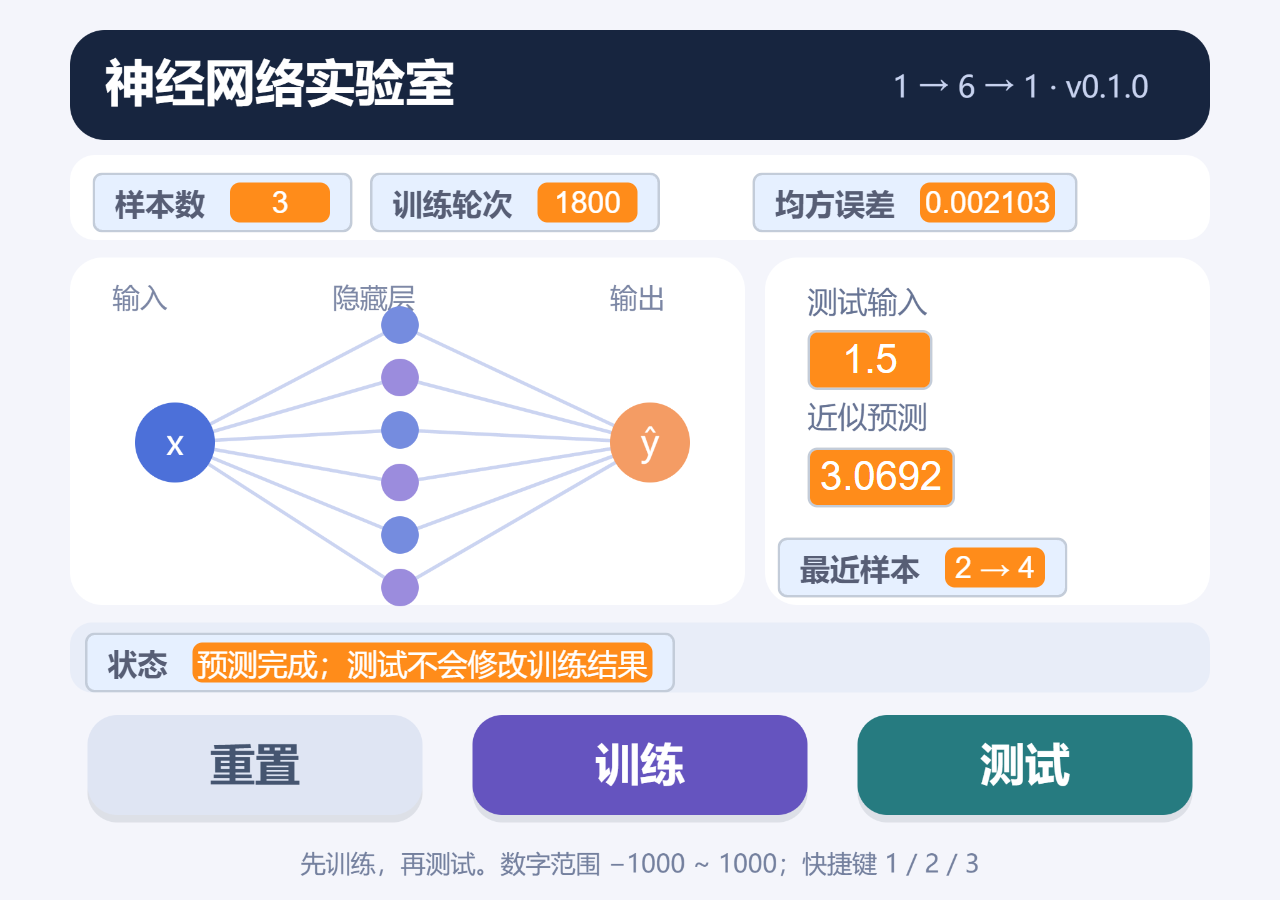
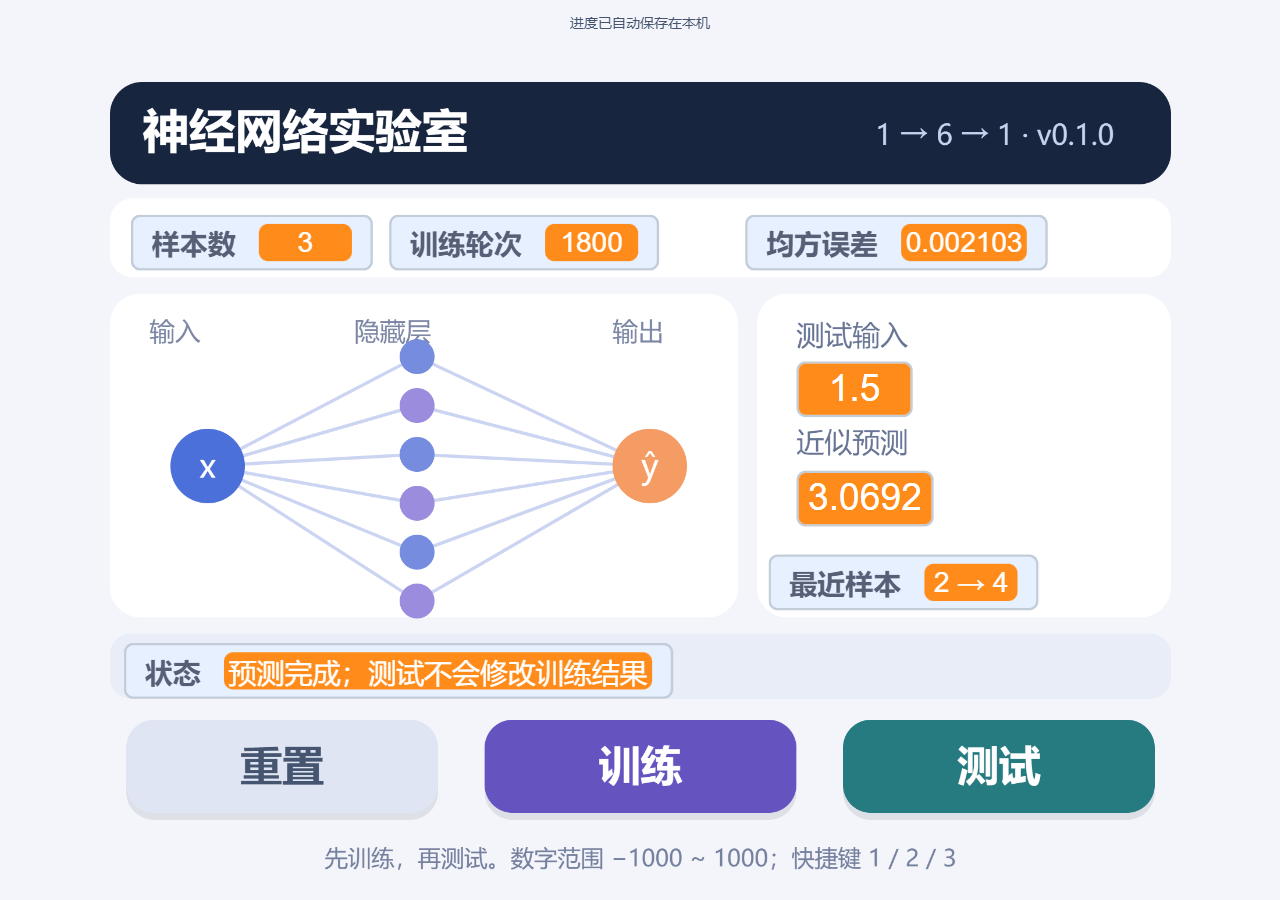
Deliver tested offline web resource for game hub

diff --git a/web-dist/index.html b/web-dist/index.html
@@ -140,7 +140,13 @@
     .sc-monitor-row-value-editing .sc-monitor-row-value-outer {
       background-color: #e25b27;
     }
-    
+    #hall-banner{position:fixed;top:max(8px,env(safe-area-inset-top));left:10px;right:10px;min-height:32px;display:flex;align-items:center;justify-content:center;gap:10px;z-index:20;color:#455570;font:14px/1.4 system-ui,sans-serif;text-align:center}
+#hall-banner button{padding:8px 12px;min-height:40px;border:1px solid #b9c4da;border-radius:8px;background:#fff;color:#17253f;font:inherit}
+#app{top:54px!important;height:calc(100% - 62px)!important}
+.sc-question-input{font-size:16px!important;min-height:40px!important;box-sizing:border-box}
+.sc-question-inner{padding:10px!important}
+@media(max-height:450px){#hall-banner{font-size:12px;top:4px;min-height:24px}#app{top:36px!important;height:calc(100% - 40px)!important}}
+
   </style>
   <meta name="theme-color" content="#f4f5fb">
   
@@ -288,7 +294,105 @@ THIS SOFTWARE IS PROVIDED BY THE COPYRIGHT HOLDERS AND CONTRIBUTORS "AS IS" AND 
       handleError(e);
     }
   </script>
-  
+  <script>
+    try {
+      window.__hallConfig={"id":"turbowarp-neural-network","title":"神经网络实验室","version":"0.1.0","kind":"neural","project":"dist/neural-network.sb3"};
+(function(root){
+ 'use strict';
+ const clone=value=>JSON.parse(JSON.stringify(value));
+ function validate(data,config,template){
+  if(!data||data.schemaVersion!==1||data.id!==config.id||data.contract!==config.id+'-dynamic-v1'||!data.variables||Array.isArray(data.variables))throw Error('存档版本或项目不匹配');
+  const keys=Object.keys(template).sort();
+  if(JSON.stringify(Object.keys(data.variables).sort())!==JSON.stringify(keys))throw Error('存档字段不完整');
+  const scalar=v=>typeof v==='boolean'||typeof v==='number'&&Number.isFinite(v)||typeof v==='string'&&v.length<=256;
+  for(const id of keys){const value=data.variables[id];if(Array.isArray(template[id])){if(!Array.isArray(value)||value.length>512||!value.every(scalar))throw Error('存档列表无效');}else if(!scalar(value)||Array.isArray(value))throw Error('存档数值无效');}
+  const v=data.variables;
+  if(Number(v.v_忙碌)!==0)throw Error('存档来自未完成操作');
+  if(config.kind==='neural'){
+   const xs=v.l_样本X,ys=v.l_样本Y;
+   if(xs.length!==ys.length||xs.length>32||xs.some(x=>!Number.isFinite(Number(x))||Math.abs(Number(x))>1000)||ys.some(x=>!Number.isFinite(Number(x))||Math.abs(Number(x))>1000))throw Error('训练样本无效');
+   if(Number(v.v_样本数)!==xs.length||!Number.isSafeInteger(Number(v.v_训练轮次))||Number(v.v_训练轮次)<0)throw Error('训练记录不一致');
+   for(const n of ['l_W1','l_B1','l_W2','l_H'])if(v[n].length!==6||v[n].some(x=>!Number.isFinite(Number(x))))throw Error('模型权重无效');
+   if(!Number.isFinite(Number(v.v_B2))||!Number.isFinite(Number(v.v_scaleX))||!Number.isFinite(Number(v.v_scaleY))||!(Number(v.v_scaleX)>0)||!(Number(v.v_scaleY)>0))throw Error('模型缩放无效');
+  }else{
+   for(const [n,max] of [['T',6],['A',24],['B',24],['Q',1]])if(v['l_'+n].length!==24||v['l_'+n].some(x=>!Number.isInteger(Number(x))||Number(x)<0||Number(x)>max))throw Error('电路数据无效');
+   if(Number(v.v_来源)!==0)throw Error('存档含未完成连线');
+   for(const n of ['U_T','U_A','U_B','U_Q'])if(v['l_'+n].length!==(Number(v.v_可撤销)===1?24:0)&&v['l_'+n].length!==24)throw Error('撤销快照无效');
+   const marks=Array(24).fill(0);
+   const visit=i=>{if(marks[i]===1)throw Error('电路含反馈');if(marks[i]===2)return;marks[i]=1;const type=Number(v.l_T[i]);if(type>=2){const ports=[v.l_A[i]];if([2,4,5].includes(type))ports.push(v.l_B[i]);for(const p of ports)if(Number(p)){if(!Number(v.l_T[Number(p)-1]))throw Error('电路来源为空');visit(Number(p)-1);}}marks[i]=2;};
+   for(let i=0;i<24;i++)visit(i);
+  }
+  return data;
+ }
+ function parse(raw,config,template){if(typeof raw!=='string'||raw.length>100000)throw Error('存档大小无效');return validate(JSON.parse(raw),config,template);}
+ const api={clone,validate,parse};
+ if(typeof module!=='undefined'&&module.exports)module.exports=api;else root.TurboHallState=api;
+})(typeof window==='undefined'?globalThis:window);
+
+(() => {
+ 'use strict';
+ const config=window.__hallConfig,codec=window.TurboHallState,scaffolding=window.scaffolding,vm=scaffolding.vm;
+ const key=config.id+'.state.v1';
+ const banner=document.createElement('div');banner.id='hall-banner';
+ const status=document.createElement('span');status.role='status';status.textContent='正在恢复进度…';
+ const restart=document.createElement('button');restart.type='button';restart.textContent='从原始作品重新开始';restart.hidden=true;
+ banner.append(status,restart);document.body.append(banner);
+ let ready=false,locked=false,last='',template,initial,booting=false,storageError=false;
+ const stage=()=>vm.runtime.getTargetForStage();
+ const values=()=>Object.fromEntries(Object.entries(stage().variables).map(([id,v])=>[id,codec.clone(v.value)]));
+ const idle=()=>stage()&&Number(stage().variables.v_忙碌.value)===0&&(config.kind!=='logic'||Number(stage().variables.v_来源.value)===0);
+ const normalized=()=>{const v=values();if(config.kind==='logic'){v.v_清空时刻=-10;v.v_动作=0;}return v;};
+ function save(){
+  if(!ready||locked||!idle())return false;
+  const variables=normalized(),encoded=JSON.stringify(variables);
+  if(encoded===last)return true;
+  try{
+   const data={schemaVersion:1,id:config.id,contract:config.id+'-dynamic-v1',variables};codec.validate(data,config,template);
+   localStorage.setItem(key,JSON.stringify(data));last=encoded;status.textContent='进度已自动保存在本机';storageError=false;return true;
+  }catch(error){status.textContent='暂时无法保存进度，请保留当前页面';storageError=true;return false;}
+ }
+ async function settle(){
+  const deadline=performance.now()+10000;await new Promise(r=>setTimeout(r,120));
+  while(!idle()||(config.kind==='logic'&&vm.runtime.targets.filter(t=>!t.isOriginal).length!==24)){
+   if(performance.now()>deadline)throw Error('作品初始化超时');await new Promise(r=>setTimeout(r,30));
+  }
+ }
+ async function apply(data){
+  codec.validate(data,config,template);
+  for(const [id,value] of Object.entries(data.variables))stage().variables[id].value=codec.clone(value);
+  if(config.kind==='logic'){
+   stage().variables.v_动作.value=Math.max(1,Math.min(6,Number(stage().variables.v_工具.value)||2));
+   vm.runtime.startHats('event_whenbroadcastreceived',{BROADCAST_OPTION:'工具点击'});await settle();
+  }
+ }
+ const originalStart=scaffolding.start.bind(scaffolding);
+ scaffolding.start=()=>{
+  if(booting)return;booting=true;
+  initial={schemaVersion:1,id:config.id,contract:config.id+'-dynamic-v1',variables:values()};template=codec.clone(initial.variables);
+  let restore=initial;
+  try{const raw=localStorage.getItem(key);if(raw!==null)restore=codec.parse(raw,config,template);}
+  catch(error){locked=true;status.textContent='存档无法恢复，原数据已保留；可选择重新开始';restart.hidden=false;}
+  originalStart();
+  (async()=>{await settle();if(config.kind==='neural'&&initial.variables.l_W1.length===0)initial.variables=values();if(!locked)await apply(restore);ready=true;window.hall.ready=true;
+   if(!locked){last='';save();}
+   setInterval(save,200);vm.runtime.on('AFTER_EXECUTE',save);
+  })().catch(error=>{locked=true;status.textContent='作品恢复失败，原存档已保留';restart.hidden=false;window.hall.error=String(error);});
+ };
+ restart.addEventListener('click',async()=>{
+  if(!window.confirm('保留原存档的恢复副本，并从作品初始状态重新开始？'))return;
+  try{const raw=localStorage.getItem(key);if(raw!==null)localStorage.setItem(config.id+'.recovery.'+Date.now(),raw);await apply(initial);locked=false;restart.hidden=true;last='';save();}
+  catch(error){status.textContent='无法安全恢复，请保留当前页面和存档';}
+ });
+ window.addEventListener('pagehide',save);
+ document.addEventListener('visibilitychange',()=>{if(document.hidden)save();});
+ new MutationObserver(()=>{for(const input of document.querySelectorAll('.sc-question-input')){input.inputMode='decimal';input.autocomplete='off';input.setAttribute('aria-label','输入数字');}}).observe(document.body,{childList:true,subtree:true});
+ window.hall={ready:false,save,storageKey:key,state:()=>values(),get storageError(){return storageError;}};
+})();
+
+    } catch (e) {
+      handleError(e);
+    }
+  </script>
   
       <script>
       const getBase85DecodeValue = (code) => {

diff --git a/doc/大厅网页测试报告.md b/doc/大厅网页测试报告.md
@@ -1,10 +1,10 @@
 # 大厅网页测试报告
 
-2026-10-26；首个原型，后续大厅验收尚未完成。
+2026-10-26；原有 SB3 的离线网页封装及触摸/存档验收完成，大厅内 Android 验收尚未完成。
 
-- `node --test tests/network.test.mjs tests/project.test.mjs`：13 通过、0 失败。包含内存构建不覆盖 SB3 的回归检查。
+- `node --test tests/network.test.mjs tests/project.test.mjs tests/web-state.test.mjs`：18 通过、0 失败。包含内存构建不覆盖 SB3 与网页存档结构检查。
[1 lines of base64/hex data omitted]
-- `node scripts/test-web.mjs`：独立 Chromium，阻断所有外部请求；鼠标点击原重置/训练/测试角色，训练 0→0、1→2、2→4 后，测试 1.5 得 3.0692。0 页面错误、0 外部请求。收紧 CSP 后重复同一流程仍通过。
-- 桌面 1280×900、窄屏 390×844 截图已实际查看；见 evidence/web-desktop.png、evidence/web-mobile.png。
+- `node scripts/test-web.mjs`：6 项浏览器检查通过。独立 Chromium 阻断所有外部请求；鼠标点击原重置/训练/测试角色，训练 0→0、1→2、2→4 后，测试 1.5 得 3.0692；刷新后恢复模型、样本与训练轮数；中断提问后仍保留上一份完整模型；损坏存档不被覆盖；真实移动触摸能操作重置和训练，提问有数字键盘提示。0 页面错误、0 外部请求。
+- 桌面 1280×900、窄屏 390×844、触摸截图已实际查看；见 evidence/web-desktop.png、evidence/web-mobile.png、evidence/web-touch.png，结构化结果见 evidence/web-test.json。
 
-当前仅 W01/W02 和 W06 的布局检查完成；真实触摸、存档恢复、错误态、大厅内 Android 验收待后续完成。没有创建独立 APK。
+原 SB3 SHA 与测试前一致。游戏大厅候选构建、签名与 Android 宿主验收属于 H3；没有创建独立游戏 APK。

diff --git a/README.md b/README.md
@@ -32,3 +32,12 @@ node scripts/test-editor.mjs
 数值基准在 src/network.mjs；实际作品计算由 src/build-project.mjs 生成的原生积木执行。测试会把二者的全部权重作数值比较。过程与证据见 doc/、evidence/。构建产物 manifest 包含 SHA-256，可重新生成与核对。
 
 源码和作品已通过私有 GitHub 仓库备份：<https://github.com/xiaoxuhui/turbowarp-neural-network>。日常在本目录的 `main` 分支提交并推送；尚未发布网页、独立 APK 或游戏大厅资源。
+
+
+## 游戏大厅离线网页版
+
+`web-dist/index.html` 由已有 SB3 和固定版本 TurboWarp Packager 生成，直接离线打开即可；算法、舞台及操作仍由原生积木执行。运行不依赖 TurboWarp 网站。手机可触摸操作；神经网络问答提供数字键盘提示。完成操作后自动保存到本机，输入或训练未完成时保留上一份完整存档。损坏存档不会被自动替换。
+
+`node scripts/build-web.mjs` 只生成 web-dist，不覆盖原 SB3；`node scripts/test-web.mjs` 在独立浏览器阻断外网进行真实鼠标、触摸、恢复及错误态验证。测试复用 Bridge 的浏览器工具链，不修改 Bridge 的配置。
+
+大厅接入身份见 game-hub.integration.json，当前资源协议 2、桥协议 1。源仓库保持私有；大厅仅分发 web-dist 内有明确许可的运行资源，不包含开发日志或机器配置。不制作独立 APK。大厅登记与发行进展见 doc/大厅网页接入实施计划.md。

diff --git a/doc/大厅网页接入实施计划.md b/doc/大厅网页接入实施计划.md
@@ -10,10 +10,11 @@
 - **Files**：package.json, pnpm-lock.yaml, scripts/build-web.mjs, web/, web-dist/, LICENSE。
 - **Evidence**：doc/大厅网页测试报告.md；13 项基线测试通过、离线浏览器训练预测得到 3.0692、0 外部请求和页面错误、原 SB3 SHA 不变。
 
-## H2 触摸与稳定存档 `[COMPLETE]`
+## H2 触摸与稳定存档 `[VERIFIED]`
 - **Objective**：手机可操作、退出重进恢复完整训练成果，损坏数据得到保护。
 - **Definition of Done**：`node --test tests/*.test.mjs` 全绿；`node scripts/test-web.mjs` 桌面/触摸及恢复、错误态检查通过，记录输出与截图。
 - **Files**：web/, tests/, scripts/test-web.mjs, src/build-project.mjs, doc/大厅网页测试报告.md。
+- **Evidence**：18 项单元/原项目回归测试、6 项离线浏览器检查、真实触摸与完整训练恢复、损坏存档保护，见测试报告与 evidence/web-test.json。
 
 ## H3 大厅候选及发行 `[PENDING]`
 - **Objective**：按已发行宿主合同注册、验收并签署发布网页资源。
